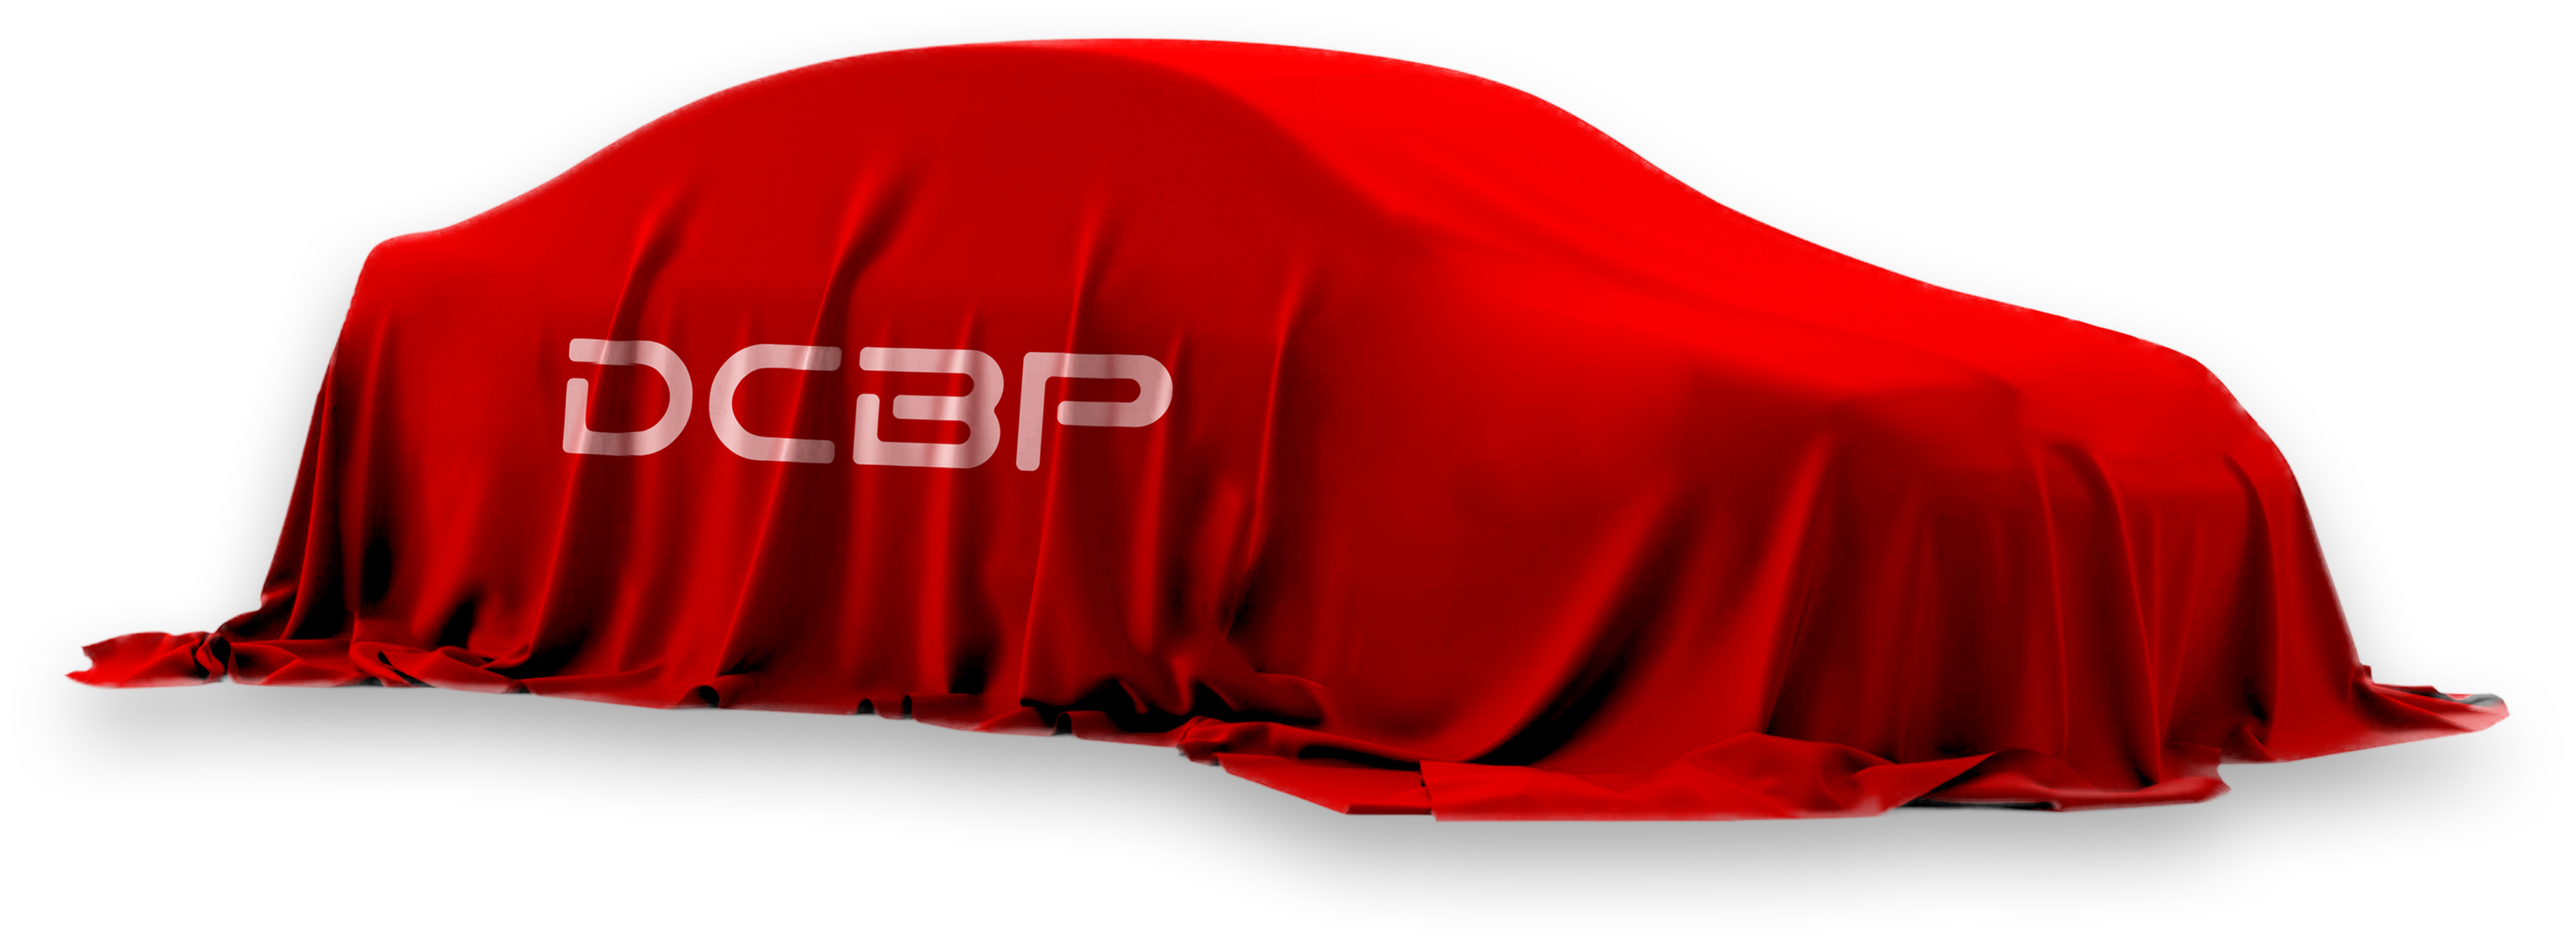
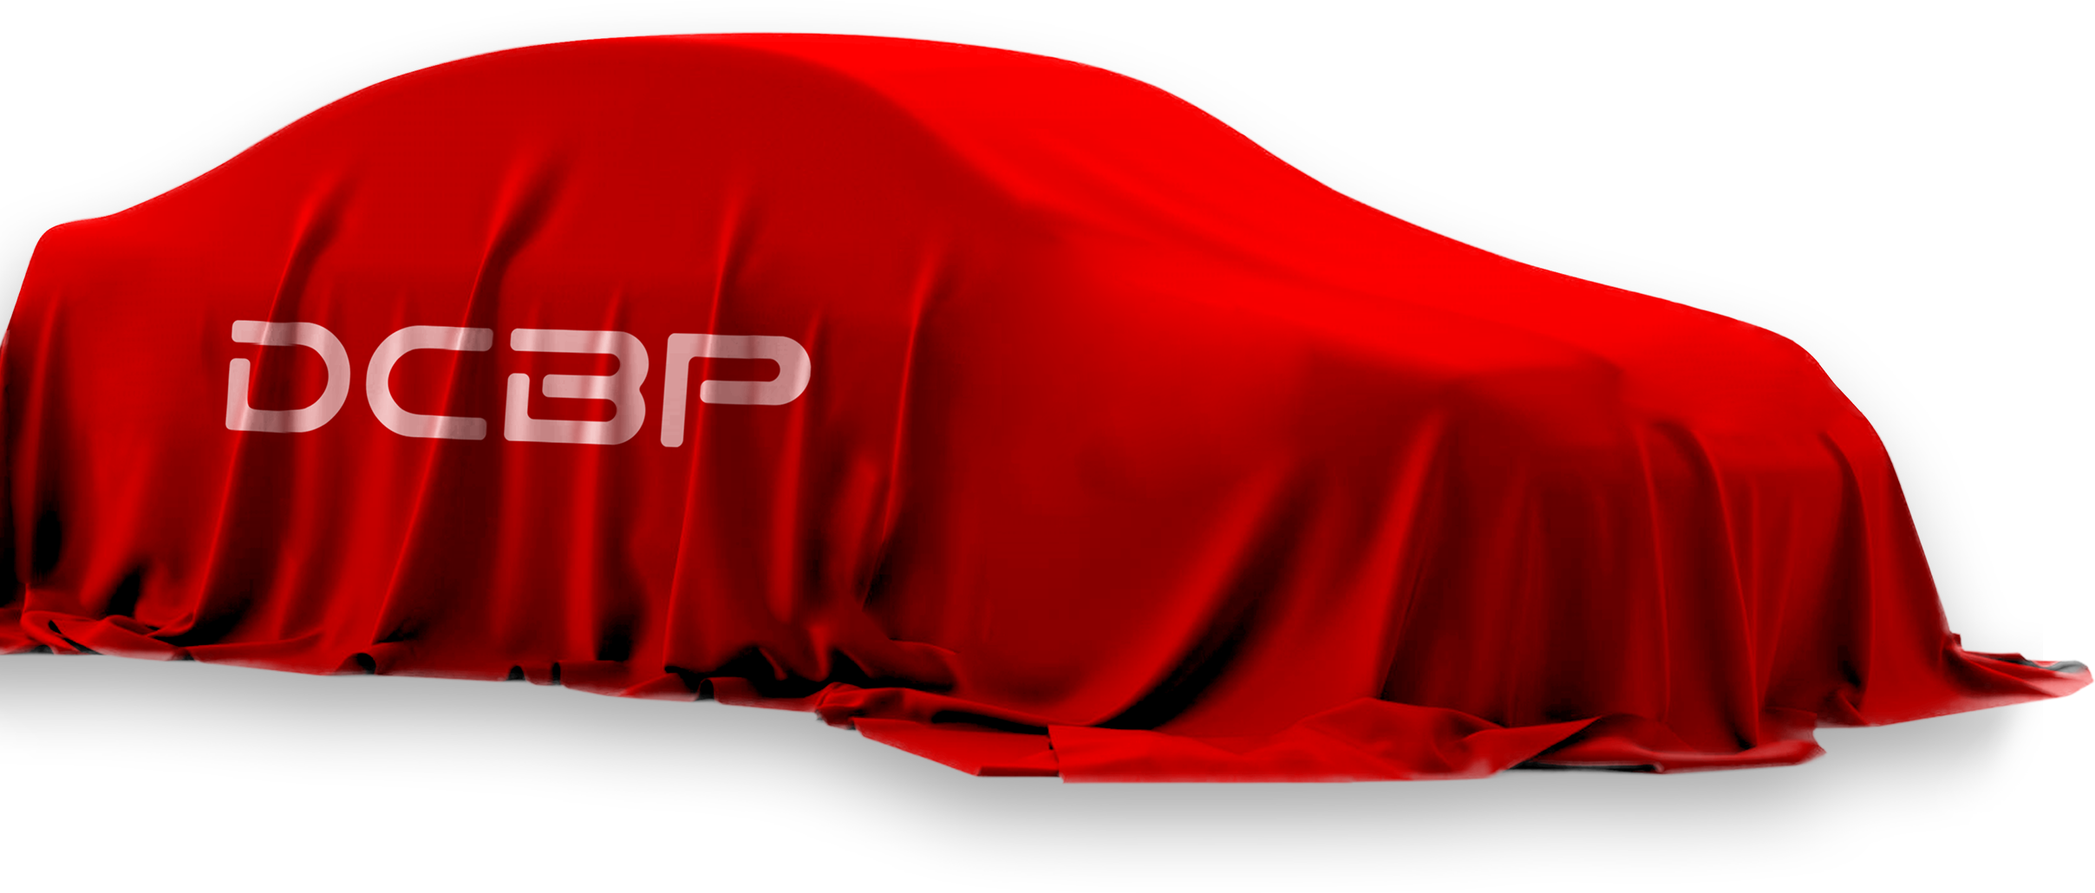
Homepage update

diff --git a/WebContent/Homepage.html b/WebContent/Homepage.html
@@ -10,8 +10,9 @@
         <link rel="stylesheet" type="text/css" href="css/home-inspection.css">
         <link rel="stylesheet" type="text/css" href="css/flexible-finance.css">
         <link rel="stylesheet" type="text/css" href="css/registration.css">
-        <link href="https://fonts.googleapis.com/css?family=Lato|Lora|Open+Sans|Oswald|Playfair+Display:200,400|Playfair+Display+SC:200|Roboto|Source+Sans+Pro" rel="stylesheet">
-
+        <link href="https://fonts.googleapis.com/css?family=Lato|Lora|Open+Sans|Oswald|Playfair+Display:200,400|Playfair+Display+SC:200|Roboto|Raleway:200|Source+Sans+Pro" rel="stylesheet">
+        <script src="https://ajax.googleapis.com/ajax/libs/jquery/3.1.1/jquery.min.js"></script>
+        <script src="js/DCBP.js"></script>
     </head>
     <body>
     
@@ -415,11 +416,6 @@
                     <div class="FlexibleFinance_Img">
                     </div>
 
-
-
-                    <div class="Homepage_Content_RedDown">
-                        <a href="#Registration_Delivery"></a>
-                    </div>
                 </div>
                 
             </div>
@@ -452,17 +448,19 @@
                             FINALIZE
                         </div>
                         <div class="HomepageContent_Title">
-                            REGISTRATION <a>&amp;</a> DELIVERY
+                            REGISTRATION <a>&amp; DELIVERY</a>
+                        </div>
+                        <div class="Registration_SeeCar">
+                        SEE CARS
                         </div>
                         <div class="HomepageContent_Detail Registration_Detail">
-                            Choose your own terms of payment rem ipsum vestibulum sociosqu velit cras senectus dolor quam cubilia mattis libero quam. nunc habitant ut felis sum sit senectus netus ante quis.curabitur
+                            Choose your own terms of payment rem ipsum vestibulum sociosqu velit cras senectus dolor quam cubilia mattis libero quam.
                         </div>
                     
-                    <div class="Registration_FindCar">
-                        FIND YOUR NEXT CAR
-                    </div>
+                    
                 </div>
-                
+                <div class="Registration_Car">
+                </div>
                 <div class="RedCar_Img">
                     
                 </div>

diff --git a/WebContent/DetailingPage.html b/WebContent/DetailingPage.html
@@ -3,17 +3,16 @@
 <head>
 <meta charset="utf-8">
 <title>DCBP Detail Page</title>
-<link type="text/css" rel="stylesheet" href="css/detailing-page.css">
-<link rel="stylesheet" type="text/css" href="css/page-header.css">
-<link rel="stylesheet" type="text/css" href="css/buy-now-block.css">
-<link rel="stylesheet" type="text/css" href="css/overview.css">
-<link rel="stylesheet" type="text/css" href="css/inspection.css">
-<link rel="stylesheet" type="text/css" href="css/insurance.css">
-<link rel="stylesheet" type="text/css" href="css/peace-of-mind.css">
-<link rel="stylesheet" type="text/css" href="css/beforebuy.css">
-<link href="https://fonts.googleapis.com/css?family=Lato|Lora|Open+Sans:300|Oswald|Playfair+Display|Playfair+Display+SC|Raleway|Roboto:100,400|Source+Sans+Pro:100" rel="stylesheet">
- <script src="https://ajax.googleapis.com/ajax/libs/jquery/3.1.1/jquery.min.js"></script>
-    <script src="https://ajax.aspnetcdn.com/ajax/jQuery/jquery-3.1.1.min.js"></script>
+    <link type="text/css" rel="stylesheet" href="css/detailing-page.css">
+    <link rel="stylesheet" type="text/css" href="css/page-header.css">
+    <link rel="stylesheet" type="text/css" href="css/buy-now-block.css">
+    <link rel="stylesheet" type="text/css" href="css/overview.css">
+    <link rel="stylesheet" type="text/css" href="css/inspection.css">
+    <link rel="stylesheet" type="text/css" href="css/insurance.css">
+    <link rel="stylesheet" type="text/css" href="css/peace-of-mind.css">
+    <link rel="stylesheet" type="text/css" href="css/beforebuy.css">
+    <link href="https://fonts.googleapis.com/css?family=Lato|Lora|Open+Sans:300|Oswald|Playfair+Display|Playfair+Display+SC|Raleway|Roboto:100,400|Source+Sans+Pro:100" rel="stylesheet">
+    <script src="https://ajax.googleapis.com/ajax/libs/jquery/3.1.1/jquery.min.js"></script>
     <script src="js/buy_now_block-fixed.js"></script>
 </head>
 <body style="margin: 0px;">

diff --git a/WebContent/css/registration.css b/WebContent/css/registration.css
@@ -1,11 +1,12 @@
 .Registration{
-    height: 900px;
+    height: 1080px;
     width: 100%;
-    background-image: url(../image/bg_5.png);
+    background: linear-gradient(#000000,#1e1e1e);
     background-size: 100% 100%; 
-    text-align: center;
+    text-align: left;
     display: flex;
     justify-content: center;
+    color: white
 
 }
 
@@ -13,41 +14,55 @@
     display: flex;
     flex-direction: column;
     justify-content: center;
-    align-items: center;
     height: 565px;
+    width: 20%;
+    margin-left: 20%;
+    
 }
 
 
+.Registration_Car{
+    height: 800px;
+    width: 60%;
+    background:url(../icons/homepage_car.png) no-repeat right;
+    background-size: auto 100%;
+    position: relative;
+    top: -50px;
+}
 
 
 
 .Registration_Detail{
-    padding: 0 30%; 
-    color: black;
+    width: 400px;   
+    font-family: 'Raleway', sans-serif;
+    
 }
 
-.Registration_FindCar {
-    height: 70px;
-    width: 400px;
-    background: #e7211e ;
-    font-size: 24px;
+.Registration_SeeCar {
+    height: 60px;
+    width: 350px;
+    background: url(../icons/homepage_button.png) no-repeat 5px 0px; 
+    background-size: auto 100%;
+    font-size: 26px;
     color: white;
     border-radius: 10px;
     letter-spacing: 3px;
     display: flex;
     align-items: center;
-    justify-content: center;
+    padding-left: 80px;
     font-family: 'Source Sans Pro', sans-serif;
-    margin-top: 70px;
+    cursor: pointer;
+    margin: 20px 0 50px 0;
 }
 
 .RedCar_Img{
     position: absolute;
-    top: 5850px;
+    top: 5890px;
     height: 550px;
-    width: 1350px;
+    left: 0px;
+    min-width: 100%;
     z-index: 5;
-    background: url(../image/car_4.png) no-repeat center;
-    background-size: 100% auto;
+    background: url(../image/car_4.png) no-repeat left;
+    background-size: auto 100%;
 }
 

diff --git a/WebContent/css/homepage.css b/WebContent/css/homepage.css
@@ -18,8 +18,8 @@ body{
 }
 
 .HomepageHeader{
-  min-width: 1622px;
-  height: 900px;
+  min-width: 1450px;
+  height: 820px;
   background-image: url(../image/hero.png);
   background-size: 100% auto;
   color: white;
@@ -32,6 +32,7 @@ body{
 
 .HomepageHeader_Content{
   height: 850px;
+
   padding-top: 100px;
   display: flex;
   flex-direction: column;
@@ -44,7 +45,7 @@ body{
   width: 100%;
   font-size: 60px;
   font-family: 'Playfair Display', serif;
-  padding-top: 100px;
+  padding-top: 0px;
 }
 
 .HomepageHeader_Detail{
@@ -60,7 +61,7 @@ body{
   width: 100%;
   display: flex;
   justify-content: center;
-  margin-bottom: 300px;
+  margin-bottom: 150px;
 }
 
 
@@ -176,7 +177,6 @@ body{
   line-height: 60px;
   padding:10px 0 30px 0;
   font-weight: 500;
-  width: 800px;
 }
 
 .HomepageContent_Title>a{
@@ -208,7 +208,7 @@ body{
 .HomepageFooter{
   color: white;
   text-align: center;
-  height: 800px;
+  height: 1000px;
   background: url(../image/footer_bg2.png) no-repeat;
   background-size:100% 100%; 
   display: flex;

diff --git a/WebContent/ShoppingPage.html b/WebContent/ShoppingPage.html
@@ -12,7 +12,8 @@
     <link href="https://fonts.googleapis.com/css?family=Lato:400i|Lora|Open+Sans|Oswald|Playfair+Display|Playfair+Display+SC|Raleway|Roboto|Source+Sans+Pro" rel="stylesheet">
     <script src="https://ajax.googleapis.com/ajax/libs/jquery/3.1.1/jquery.min.js"></script>
     <script src="https://ajax.aspnetcdn.com/ajax/jQuery/jquery-3.1.1.min.js"></script>
-    
+    <script src="https://ajax.googleapis.com/ajax/libs/jquery/3.1.1/jquery.min.js"></script>
+    <script src="js/DCBP.js"></script>
 
 <body style="margin: 0;">
     <div class="PageHeader" style="position: relative;">

diff --git a/WebContent/BrowsingPage.html b/WebContent/BrowsingPage.html
@@ -11,6 +11,8 @@
 <link rel="stylesheet" type="text/css" href="css/pagefind.css">
 <link href="https://fonts.googleapis.com/css✓family=Lato|Lora|Open+Sans|Oswald|Playfair+Display|Playfair+Display+SC|Raleway|Roboto|Source+Sans+Pro" rel="stylesheet">
 <meta name="viewport" content="width=device-width, initial-scale=1.0">
+<script src="https://ajax.googleapis.com/ajax/libs/jquery/3.1.1/jquery.min.js"></script>
+<script src="js/DCBP.js"></script>
 </head>
 <body>
     <div class="PageHeader">
